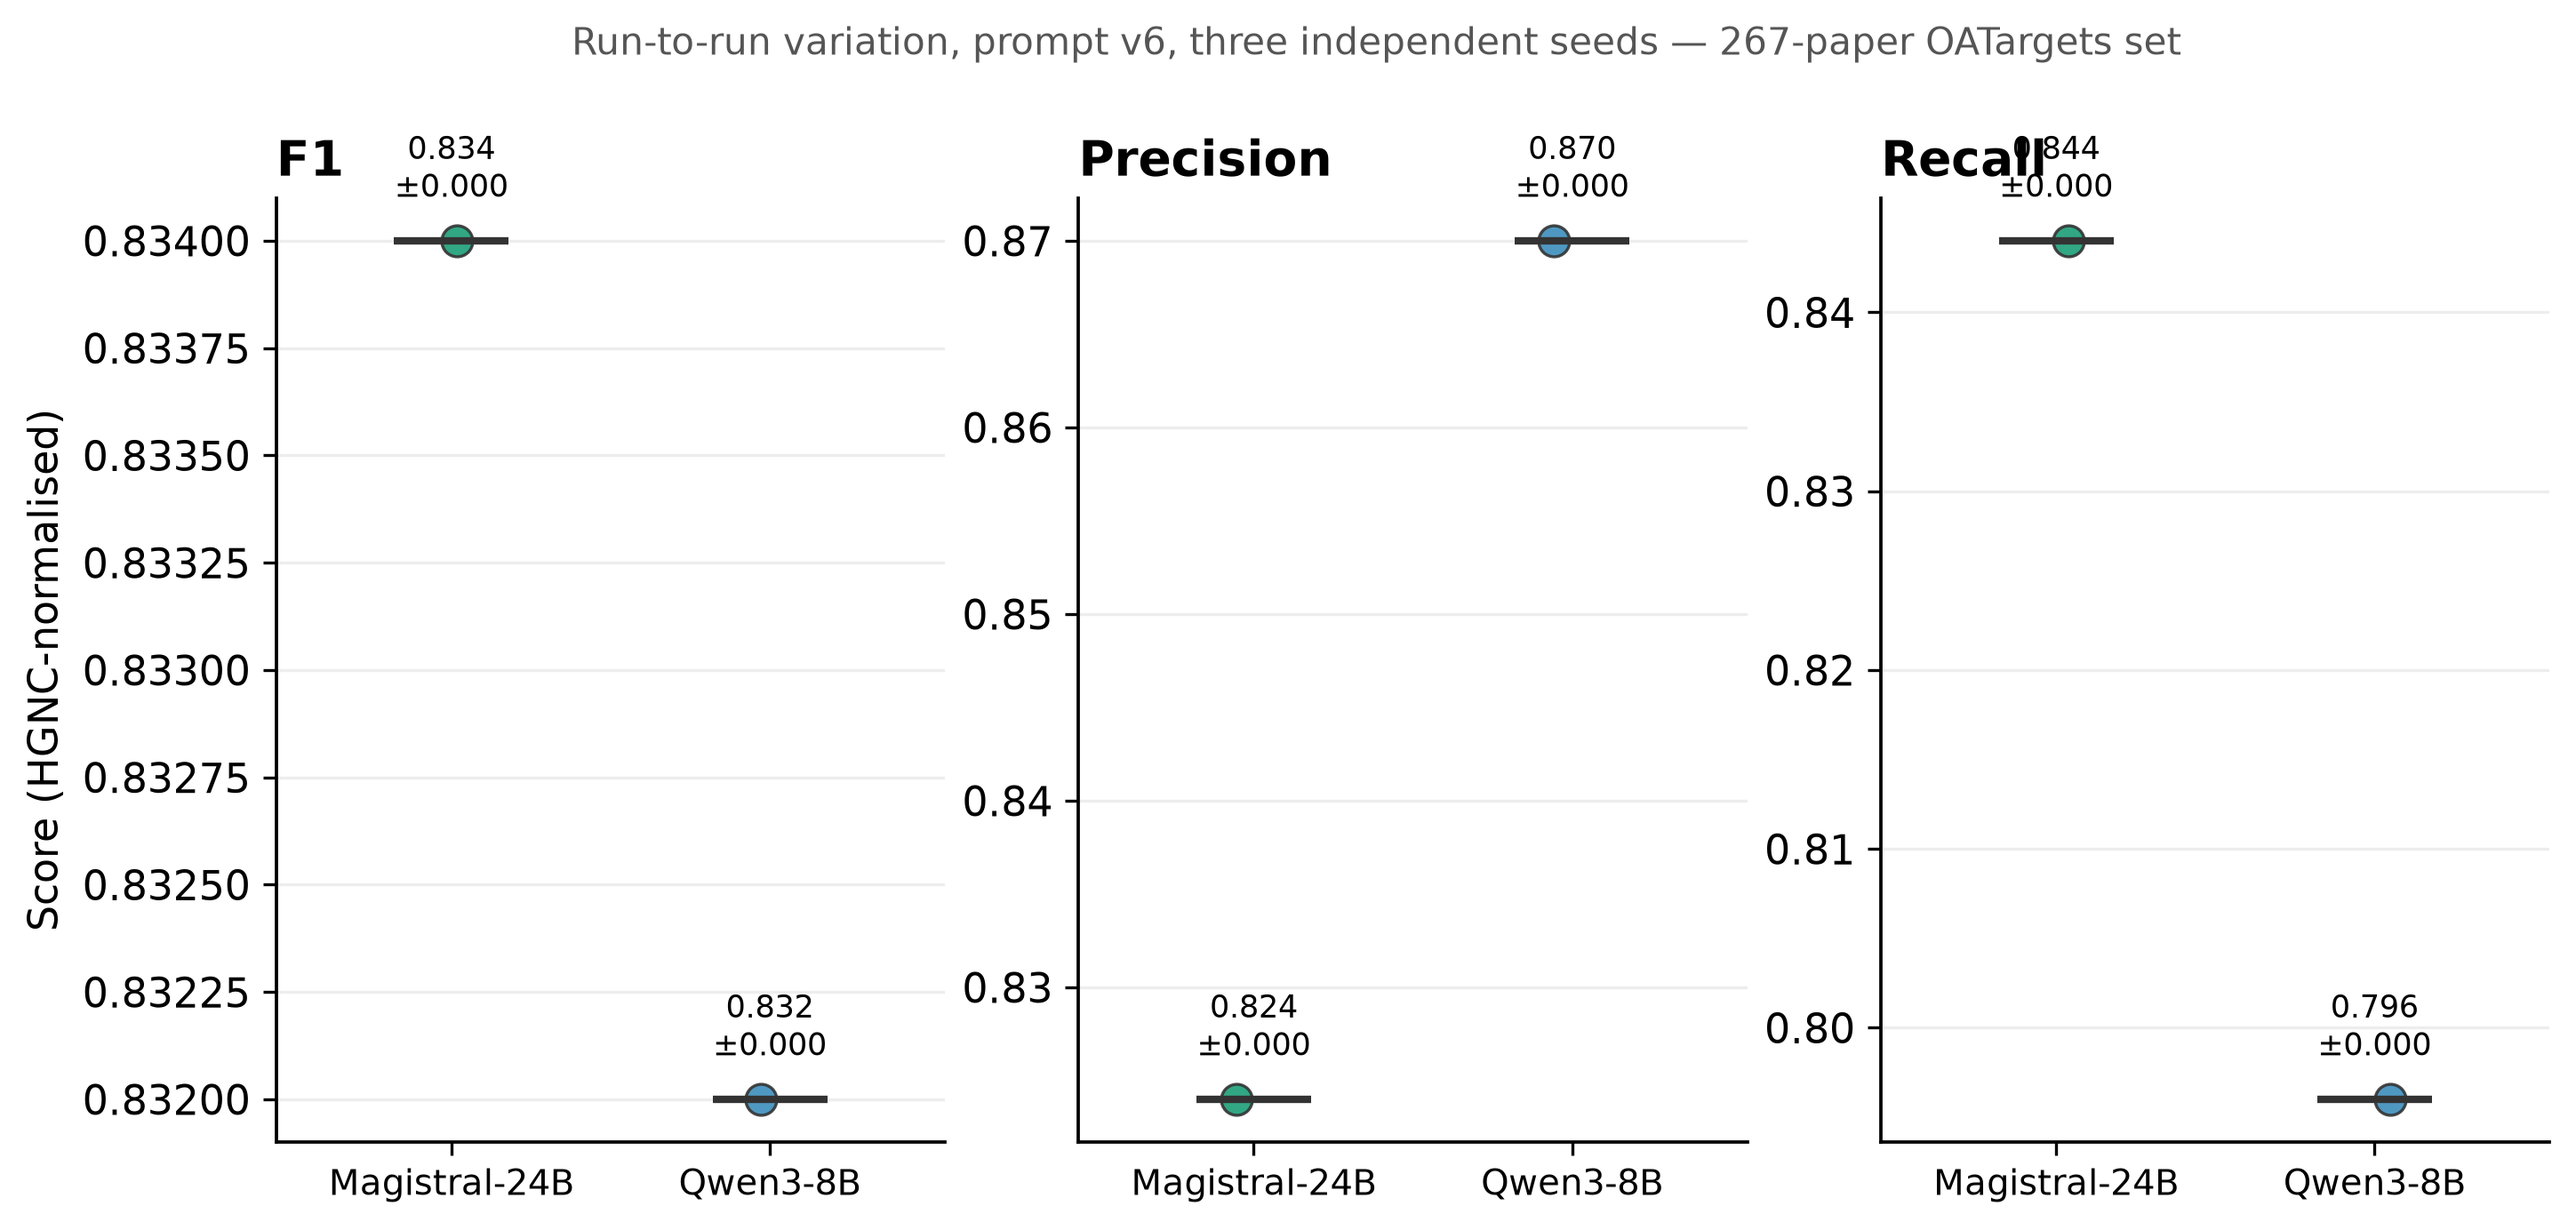
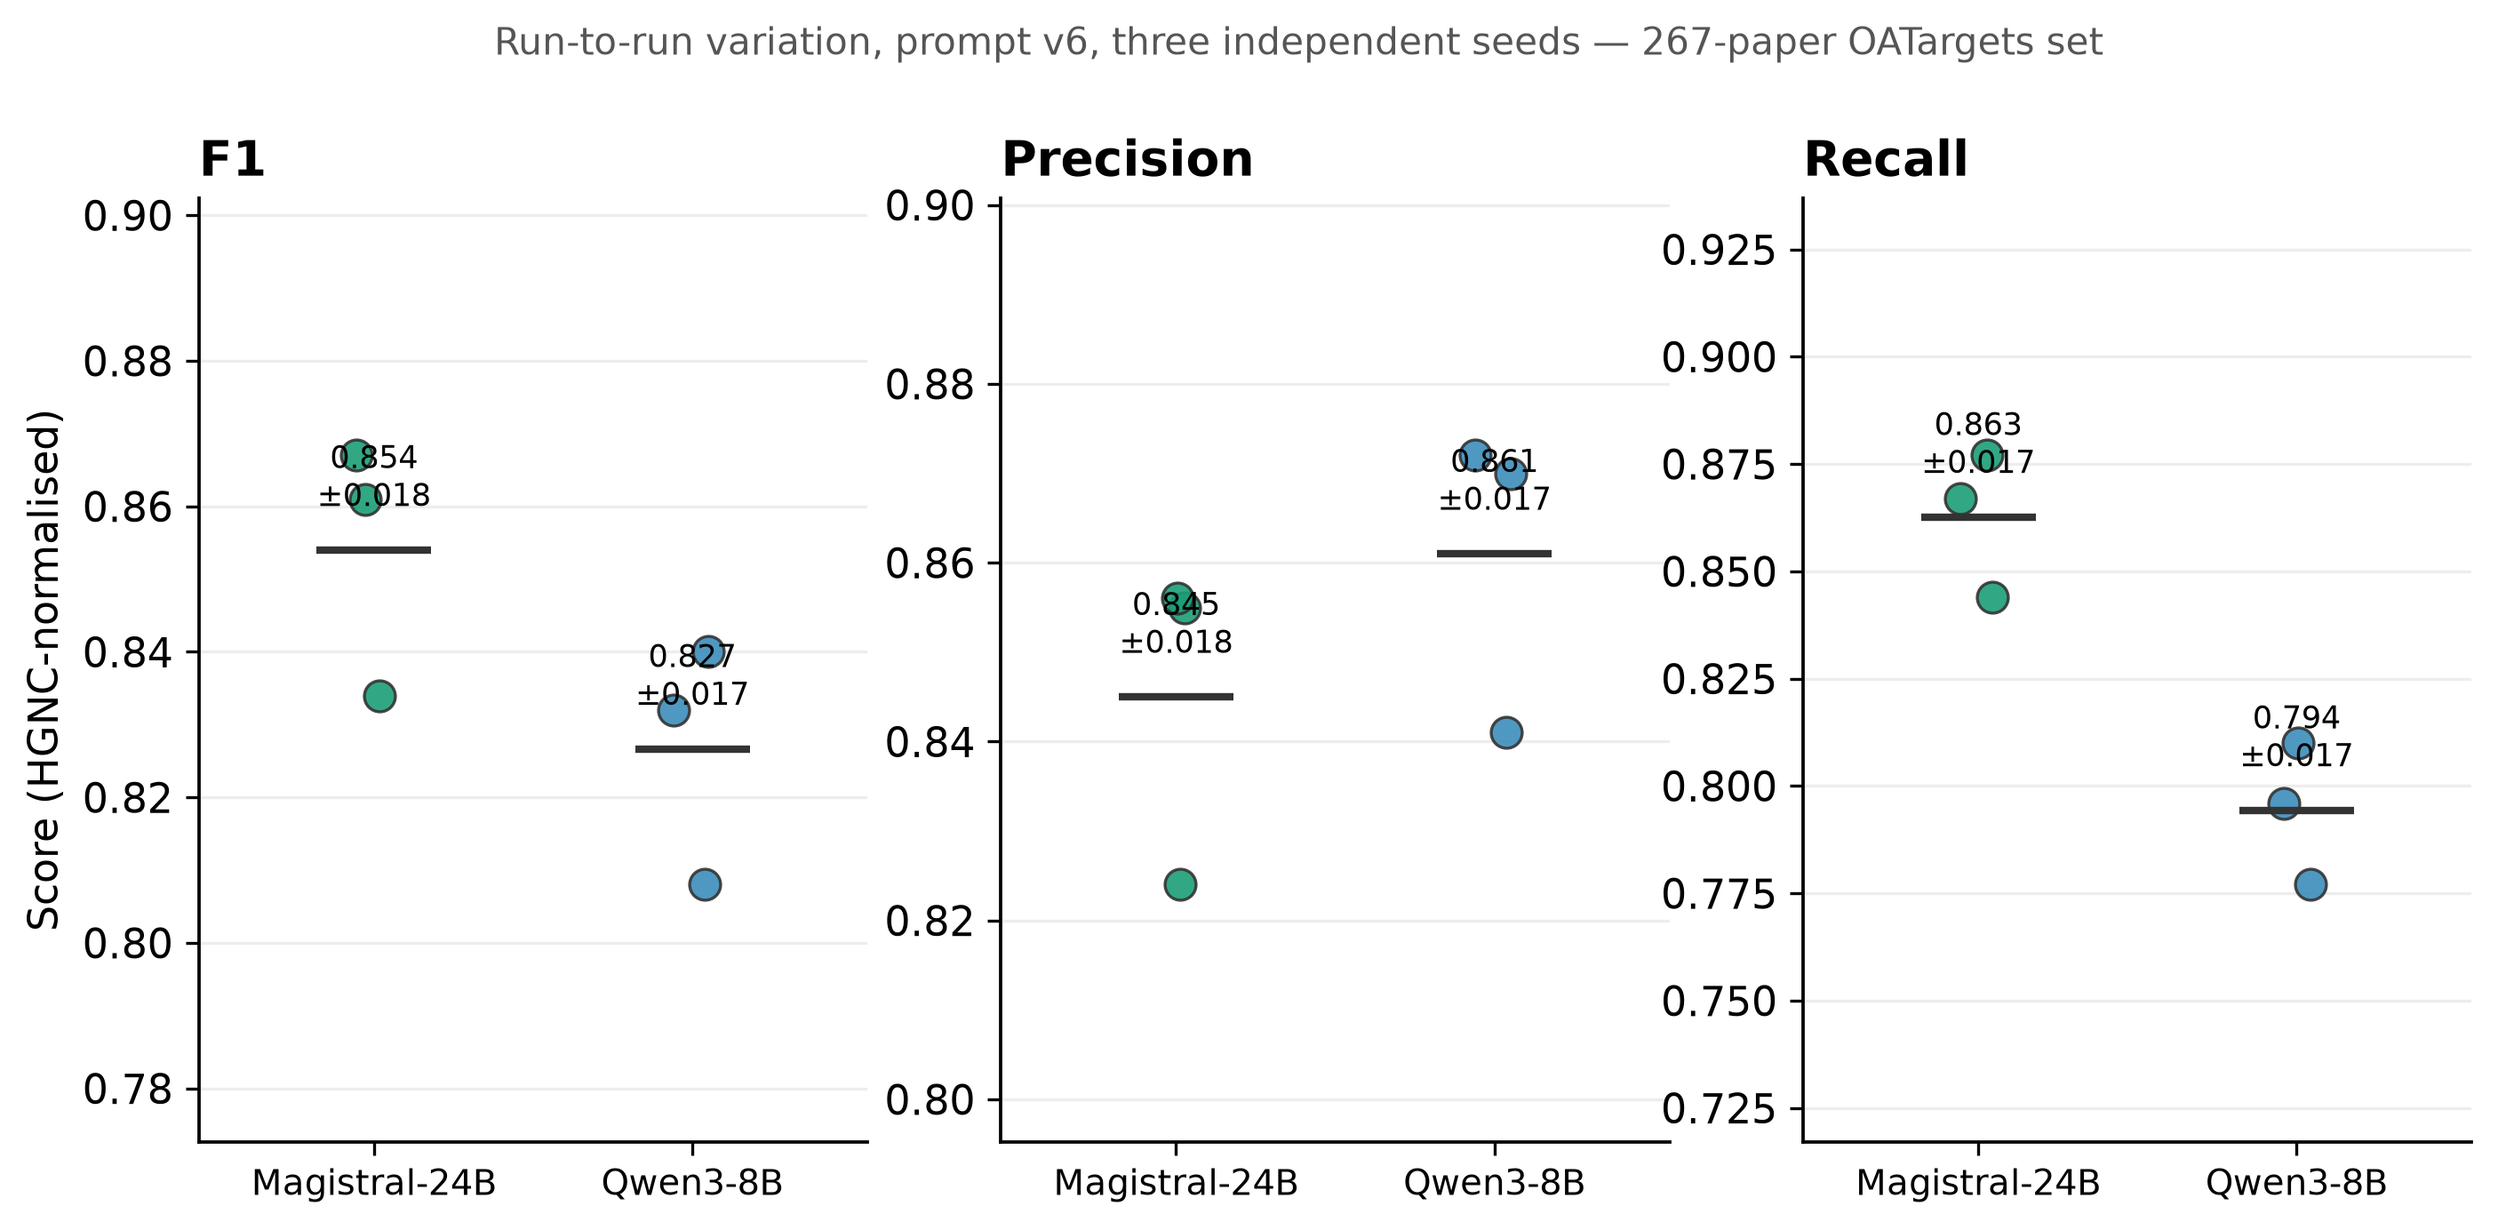
Fix replicate directory names and rebuild the strip plot

diff --git a/plot_replicates.py b/plot_replicates.py
@@ -22,13 +22,13 @@ a = ap.parse_args()
 RUNS = {
     "Magistral-24B": [
         "magi_think_v6/Magistral-Small-2509",
-        "magi_v6_s2/Magistral-Small-2509",
-        "magi_v6_s3/Magistral-Small-2509",
+        "magi_v6_r2/Magistral-Small-2509",
+        "magi_v6_r3/Magistral-Small-2509",
     ],
     "Qwen3-8B": [
         "q8b_think_v6full/Qwen3-8B",
-        "q8_v6_s2/Qwen3-8B",
-        "q8_v6_s3/Qwen3-8B",
+        "q8_v6_r2/Qwen3-8B",
+        "q8_v6_r3/Qwen3-8B",
     ],
 }
 COLOUR = {"Magistral-24B": "#1B9E77", "Qwen3-8B": "#3C8DBC"}
@@ -82,6 +82,12 @@ for ax, (key, label) in zip(axes, METRICS):
         ax.annotate(f"{m:.3f}\n\u00b1{sd:.3f}", (x, m), fontsize=8.5,
                     ha="center", va="bottom", color="black",
                     xytext=(0, 9), textcoords="offset points")
+    # keep a sensible window even when the spread is tiny, so that a
+    # difference of a thousandth is not magnified into a visual gap
+    allv = [r[key] for r in rows]
+    lo, hi = min(allv), max(allv)
+    pad = max((hi - lo) * 0.6, 0.015)
+    ax.set_ylim(lo - pad, hi + pad)
     ax.set_xticks(range(len(models)))
     ax.set_xticklabels(models, fontsize=9.5)
     ax.set_xlim(-0.55, len(models) - 0.45)
